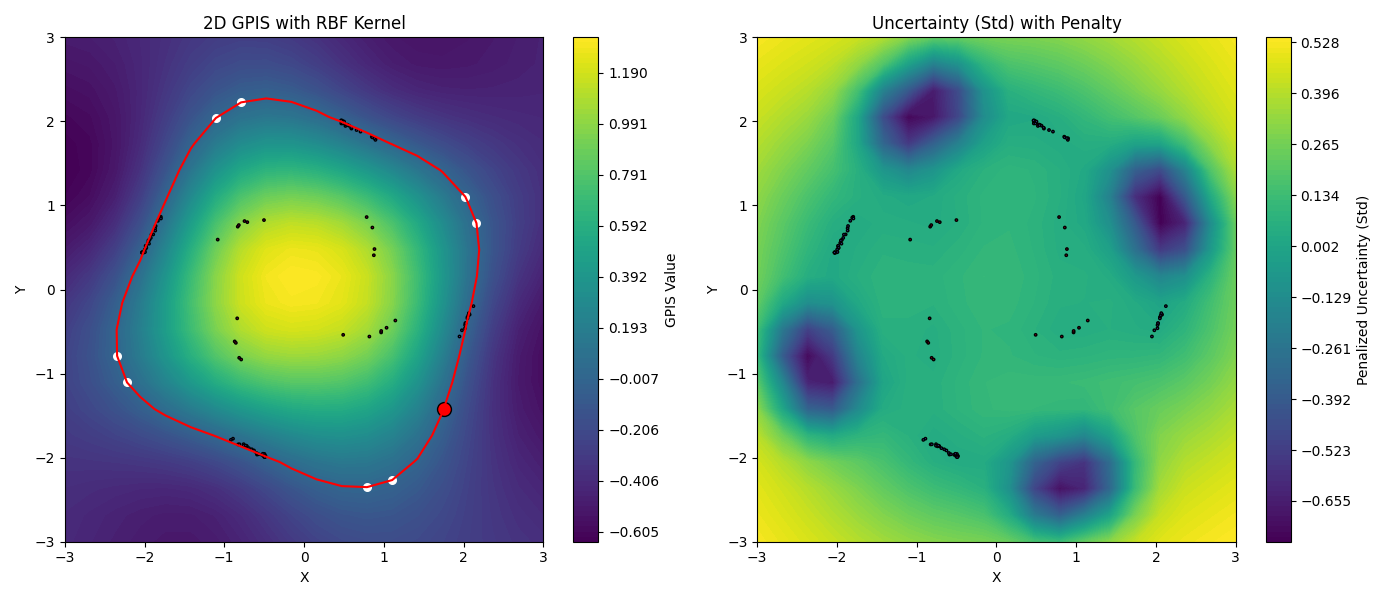
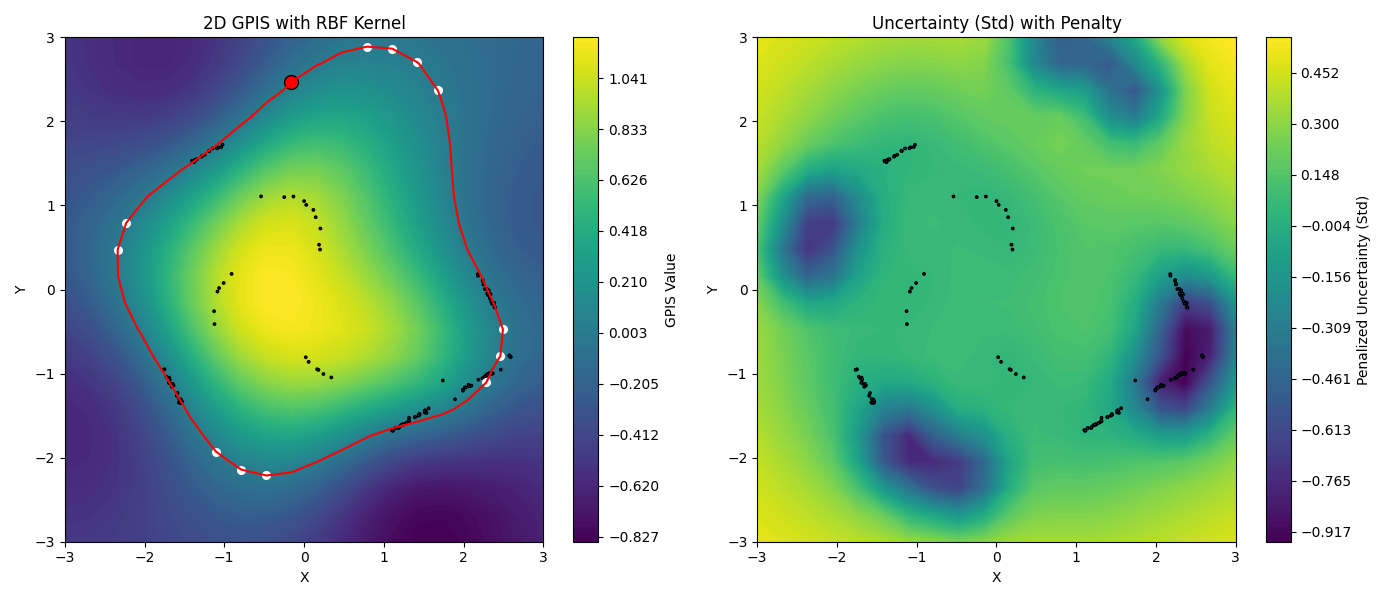
update the real time GPIS

diff --git a/examples/whiskered_drone_exploration_GPIS_CF.py b/examples/whiskered_drone_exploration_GPIS_CF.py
@@ -190,6 +190,7 @@ def main(cfg):
     laser_values1 = []
     laser_values2 = []
     direction_changes_completed = 0
+    finish_CF = False
 
     
 
@@ -207,7 +208,7 @@ def main(cfg):
     drone_state = drone.get_state()[..., :13].squeeze(0)
 
     from tqdm import tqdm
-    for i in tqdm(range(5000)):
+    for i in tqdm(range(6000)):
         if sim.is_stopped():
             break
         if not sim.is_playing():
@@ -255,6 +256,7 @@ def main(cfg):
                 laser_value1 = 1
             if depth2_noisy < 0.48:
                 laser_value2 = 1
+            finish_CF = True
         elif backward_action_counter > 0:
             R_transpose, _ = process_quaternion(drone_state, rot_z_45)
             backward_world = transform_velocity(vel_backward, R_transpose)
@@ -262,20 +264,32 @@ def main(cfg):
             backward_action_counter -= 1
             if backward_action_counter == 0:
                 _, before_yaw = process_quaternion(drone_state, rot_z_45)
-        elif direction_change_counter > 0:
             target_yaw = before_yaw + random_yaw
+        elif direction_change_counter > 0:
             _, current_yaw = process_quaternion(drone_state, rot_z_45)
             perform_attitude_control(drone, drone_state, controller, target_yaw, "change orientation")
             direction_change_counter -= 1
             if torch.abs(normalize_angle(current_yaw) - normalize_angle(target_yaw)) < 0.2:
                 direction_change_counter = 0
                 direction_changes_completed += 1
-            print(torch.rad2deg(current_yaw))
-            print(torch.rad2deg(target_yaw))
+
             if depth1_noisy > 0.48:
                 laser_value1 = -1
             if depth2_noisy > 0.48:
                 laser_value2 = -1
+            if direction_changes_completed >= 4 and finish_CF:
+                gpis = GPISModel(state_xs, state_ys, state_yaws, state_lasers1, laser_values1)
+                gpis.sample_data()
+                gpis.train_model()
+                gpis.predict()
+                next_point = gpis.find_max_uncertainty_point()
+                target_yaw = torch.tensor([np.arctan2(next_point[1] - state_y, next_point[0] - state_x)], device=sim.device)
+                direction_change_counter = 300
+                gpis.plot_results(filename='gpis_results.png')
+                finish_CF = False
+            print(torch.rad2deg(current_yaw))
+            print(torch.rad2deg(target_yaw))
+
         else:
             if MAX_THRESHOLD > depth1_noisy > MIN_THRESHOLD and MAX_THRESHOLD > depth2_noisy > MIN_THRESHOLD:
                 CF_action_counter = 150
@@ -288,15 +302,6 @@ def main(cfg):
                 control_drone(drone, drone_state, depth1_noisy, depth2_noisy, vel_forward, 
                             vel_backward, vel_side, rot_z_45, controller, 
                             yaw_left, yaw_right,  MIN_THRESHOLD, MAX_THRESHOLD)
-                
-        if direction_changes_completed == 4:
-            gpis = GPISModel(state_xs, state_ys, state_yaws, state_lasers1, laser_values1)
-            gpis.sample_data()
-            gpis.train_model()
-            gpis.predict()
-            next_point = gpis.find_max_uncertainty_point()
-            gpis.plot_results(filename='gpis_results.png')
-            simulation_app.close()
 
         sim.step(render=True)
         drone_state = drone.get_state()[..., :13].squeeze(0)
@@ -314,7 +319,8 @@ def main(cfg):
         laser_values2.append(laser_value2)
         laser_value1 = 0
         laser_value2 = 0 
-        
+    
+    simulation_app.close()
             
 
     # data = {

diff --git a/examples/GPIS.py b/examples/GPIS.py
@@ -7,7 +7,7 @@ import contourpy
 from scipy.spatial import ConvexHull
 
 class InverseMultiquadricKernel:
-    def __init__(self, c=1.0):
+    def __init__(self, c=2.0):
         self.c = c
 
     def __call__(self, X, Y=None):
@@ -53,7 +53,7 @@ class GaussianProcessRegressor:
 class GPISModel:
     def __init__(self, x, y, yaw, laser1, value1,
                  boundary_sample_ratio=0.1, interior_sample_ratio=0.05, 
-                 kernel=None, alpha=1e-2, angle_threshold_degrees=16):
+                 kernel=None, alpha=1e-2, angle_threshold_degrees=15):
         x = np.array(x)
         y = np.array(y)
         yaw = np.array(yaw)
